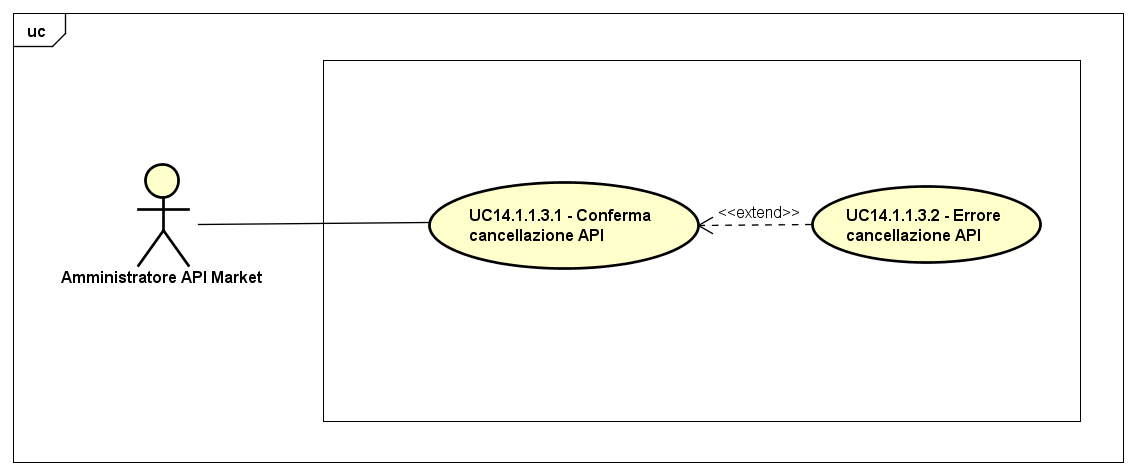
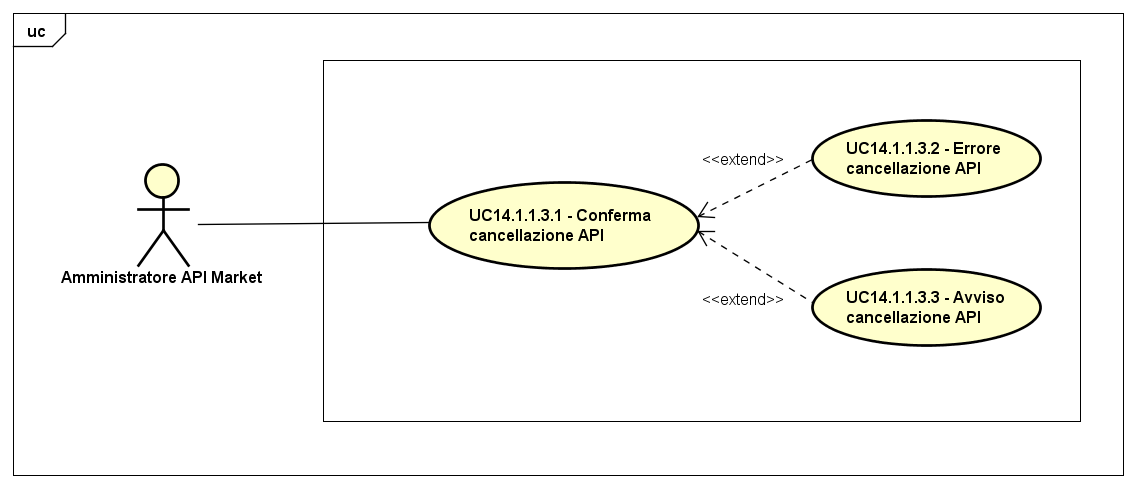
Aggiornata cancellazione API
Cancellazione API per l'utente fallisce in caso di licenze attive, per
l'amministratore genera un avviso che può ignorare

diff --git a/Docs/RP/Analisi dei requisiti/includes/UseCase/UC10.tex b/Docs/RP/Analisi dei requisiti/includes/UseCase/UC10.tex
@@ -482,3 +482,73 @@
 		\end{enumerate*}\\
 	\end{tabular}
 \end{minipage}
+
+\newpage
+\paragraph{Caso d'uso UC10.2.9: Cancellazione API}
+\label{UC10_2_9}
+\begin{figure}[ht]
+	\centering
+	\includegraphics[scale=0.45]{UML/UC10_2_9.png}
+	\caption{UC10.2.9: Cancellazione API}
+\end{figure}
+
+\begin{minipage}{\linewidth}
+	\begin{tabular}{ l | p{11cm}}
+		\hline
+		\rowcolor{Gray}
+		\multicolumn{2}{c}{UC10.2.9 - Cancellazione API} \\
+		\hline
+		\textbf{Attori} & Sviluppatore \\
+		\textbf{Descrizione} & L'attore cancella una API da lui registrata \\
+		\textbf{Pre-Condizioni} & L'attore si trova nella schermata relativa alle API da lui registrate \\
+		\textbf{Post-Condizioni} & L'attore ha cancellato una API da lui registrata \\
+		\textbf{Scenario Principale} & 
+		\begin{enumerate*}[label=(\arabic*.),itemjoin={\newline}]
+			\item L'attore può confermare la cancellazione di una API da lui registrata (UC10.2.9.1)
+		\end{enumerate*}\\
+		\textbf{Scenari Alternativi} & 
+		\begin{enumerate*}[label=(\arabic*.),itemjoin={\newline}]
+			\item L'attore, dopo aver confermato la cancellazione dell'API, può visualizzare un messaggio d'errore informativo (E.g: API con almeno una API key attiva) e la cancellazione non avviene (UC10.2.9.2)
+		\end{enumerate*}\\
+	\end{tabular}
+\end{minipage}
+
+\subparagraph{Caso d'uso UC10.2.9.1: Conferma cancellazione API}
+\label{UC10_2_9_1}
+
+\begin{minipage}{\linewidth}
+	\begin{tabular}{ l | p{11cm}}
+		\hline
+		\rowcolor{Gray}
+		\multicolumn{2}{c}{UC10.2.9.1 - Conferma cancellazione API} \\
+		\hline
+		\textbf{Attori} & Sviluppatore \\
+		\textbf{Descrizione} & L'attore conferma la cancellazione dell'API, visualizzando un messaggio di successo \\
+		\textbf{Pre-Condizioni} & L'attore si trova nella schermata relativa alle API da lui registrate \\
+		\textbf{Post-Condizioni} & L'attore ha confermato la cancellazione dell'API, visualizzando un messaggio di successo \\
+		\textbf{Scenario Principale} & 
+		\begin{enumerate*}[label=(\arabic*.),itemjoin={\newline}]
+			\item L'attore può confermare la cancellazione dell'API, visualizzando un messaggio di successo e venendo reindirizzato alla schermata di visualizzazione API registrate (UC10)
+		\end{enumerate*}\\
+	\end{tabular}
+\end{minipage}
+
+\subparagraph{Caso d'uso UC10.2.9.2: Errore cancellazione API}
+\label{UC10_2_9_2}
+
+\begin{minipage}{\linewidth}
+	\begin{tabular}{ l | p{11cm}}
+		\hline
+		\rowcolor{Gray}
+		\multicolumn{2}{c}{UC10.2.9.2 - Errore cancellazione API} \\
+		\hline
+		\textbf{Attori} & Sviluppatore \\
+		\textbf{Descrizione} & L'attore visualizza un messaggio di errore informativo e la cancellazione dell'API non avviene \\
+		\textbf{Pre-Condizioni} & L'attore si trova nella schermata relativa alle API da lui registrate e si è verificato un errore \\
+		\textbf{Post-Condizioni} & L'attore ha visualizzato un messaggio di errore informativo \\
+		\textbf{Scenario Principale} & 
+		\begin{enumerate*}[label=(\arabic*.),itemjoin={\newline}]
+			\item L'attore può visualizzare un messaggio di errore informativo e la cancellazione non avviene
+		\end{enumerate*}\\
+	\end{tabular}
+\end{minipage}

diff --git a/Docs/RP/Analisi dei requisiti/includes/UseCase/UC14.tex b/Docs/RP/Analisi dei requisiti/includes/UseCase/UC14.tex
@@ -365,6 +365,7 @@
 		\textbf{Scenari Alternativi} & 
 		\begin{enumerate*}[label=(\arabic*.),itemjoin={\newline}]
 			\item L'attore, dopo aver confermato la cancellazione dell'API scelta, può visualizzare un messaggio di errore informativo e la cancellazione non avviene (UC14.1.1.3.2)
+			\item L'attore, dopo aver confermato la cancellazione dell'API scelta, può visualizzare un messaggio di avviso (E.g: Almeno una chiave API è ancora valida) e può riconfermare la cancellazione oppure abbandonarla (UC14.1.1.3.3)
 		\end{enumerate*}\\
 	\end{tabular}
 \end{minipage}
@@ -405,6 +406,26 @@
 		\textbf{Scenario Principale} & 
 		\begin{enumerate*}[label=(\arabic*.),itemjoin={\newline}]
 			\item L'attore può visualizzare un messaggio di errore informativo e la cancellazione dell'API scelta non avviene
+		\end{enumerate*}\\
+	\end{tabular}
+\end{minipage}
+
+\subparagraph{Caso d'uso UC14.1.1.3.3: Avviso cancellazione API}
+\label{UC14_1_1_3_3}
+
+\begin{minipage}{\linewidth}
+	\begin{tabular}{ l | p{11cm}}
+		\hline
+		\rowcolor{Gray}
+		\multicolumn{2}{c}{UC14.1.1.3.3 - Avviso cancellazione API} \\
+		\hline
+		\textbf{Attori} & Amministratore API Market \\
+		\textbf{Descrizione} & L'attore visualizza un messaggio di avviso e sceglie se riconfermare la cancellazione dell'API \\
+		\textbf{Pre-Condizioni} & L'attore ha confermato la cancellazione dell'API scelta ma si è verificato un errore \\
+		\textbf{Post-Condizioni} & L'attore ha visualizzato un messaggio di avviso ed ha scelto se riconfermare la cancellazione dell'API \\
+		\textbf{Scenario Principale} & 
+		\begin{enumerate*}[label=(\arabic*.),itemjoin={\newline}]
+			\item L'attore può visualizzare un messaggio di avviso e scegliere se riconfermare la cancellazione dell'API
 		\end{enumerate*}\\
 	\end{tabular}
 \end{minipage}

diff --git a/Docs/RP/Analisi dei requisiti/includes/tabellaRequisiti/reqfunzionali.tex b/Docs/RP/Analisi dei requisiti/includes/tabellaRequisiti/reqfunzionali.tex
@@ -285,6 +285,14 @@ Di seguito sono elencati tutti i requisiti rilevati e descritti nel documento. E
 \hypertarget{RFO8.2.8}{RFO8.2.8} & Lo sviluppatore può visualizzare il guadagno netto, in base alla policy, dell'API registrata & \makecell*{Capitolato\\UC10\\UC10.2\\UC10.2.8} \\
 \hline
 
+\hypertarget{RFO8.2.9}{RFO8.2.9} & Lo sviluppatore può cancellare l'API registrata & \makecell*{Capitolato\\UC10\\UC10.2\\UC10.2.9} \\
+\hline
+
+\hypertarget{RFO8.2.9.1}{RFO8.2.9.1} & Lo sviluppatore può confermare la cancellazione dell'API registrata & \makecell*{Capitolato\\UC10\\UC10.2\\UC10.2.9.1} \\
+\hline
+\hypertarget{RFO8.2.9.2}{RFO8.2.9.2} & L'applicazione web mostra un errore nel caso la cancellazione dell'API sia fallita & \makecell*{Capitolato\\UC10\\UC10.2\\UC10.2.9.2} \\
+\hline
+
 \hypertarget{RFO9}{RFO9} & Lo sviluppatore può registrare una nuova API & \makecell*{Capitolato\\UC11} \\
 \hline
 
